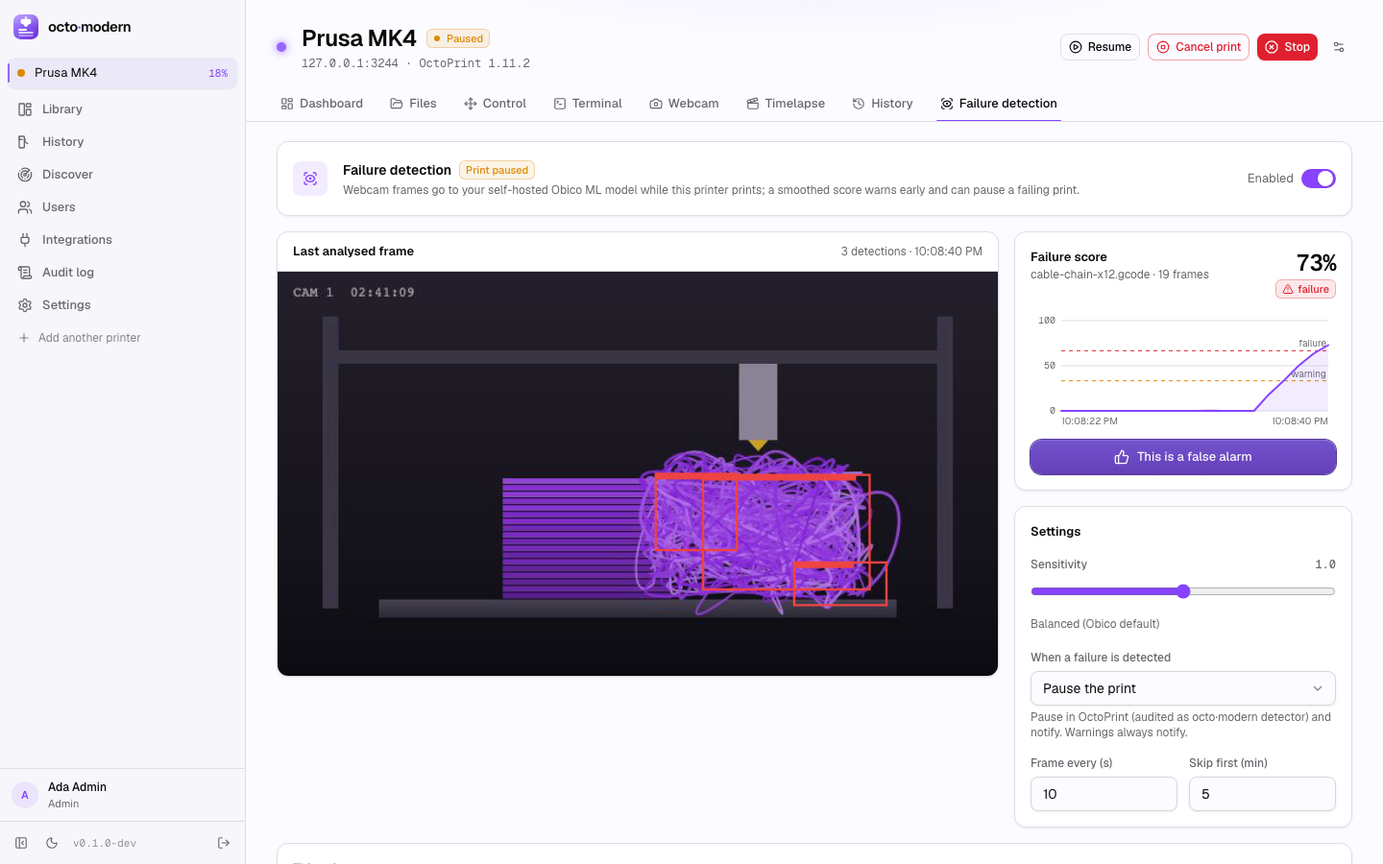
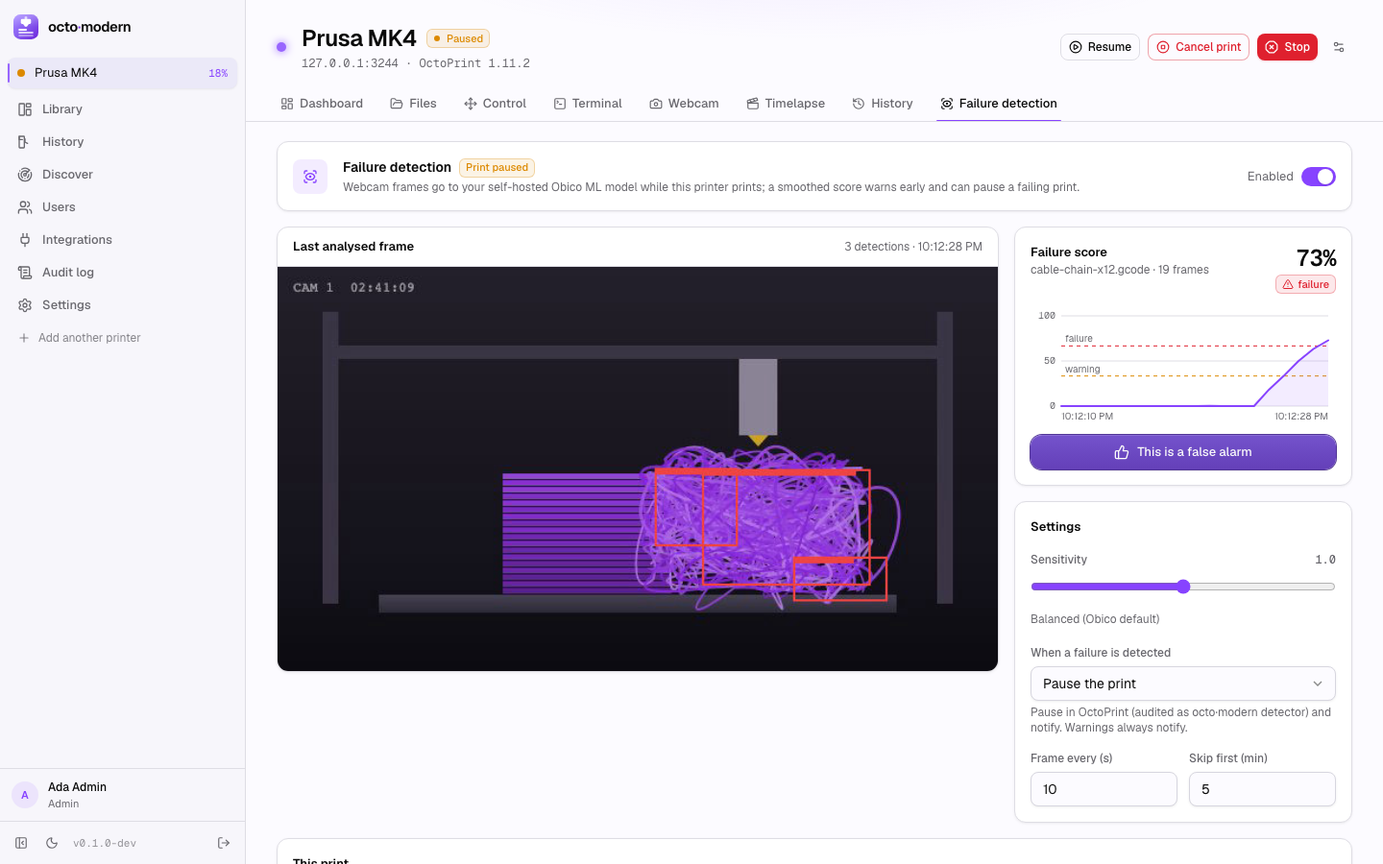
Failure detection: docs, compose example, mobile layout
compose.detect.yaml adds obico-server's ml_api (built from source) with a
shared ML_API_TOKEN; README and site document the verified ML API
interface, the score, the frame-link security model and the new
settings. The panel follows main's touch sizing; e2e takes a 390 px
screenshot and kills the app if it ignores SIGTERM.

Claude-Session: https://claude.ai/code/session_01VYYm8sXoCeympBHRdWuxtT

diff --git a/site/docs.html b/site/docs.html
@@ -94,6 +94,7 @@
 								<li><a href="#configuration">Configuration</a></li>
 								<li><a href="#status-api">Status API</a></li>
 								<li><a href="#webcams">Webcams and files</a></li>
+								<li><a href="#detection">Failure detection</a></li>
 								<li><a href="#images">Images</a></li>
 								<li><a href="#security">Security model</a></li>
 								<li><a href="#backup">Backup &amp; restore</a></li>
@@ -166,8 +167,9 @@
 								<tr><td>Start, pause, resume, cancel prints</td><td class="yes" data-label="Admin">✓</td><td class="yes" data-label="Operator">✓</td><td class="no" data-label="Viewer">–</td></tr>
 								<tr><td>Set temperatures, connect/disconnect, G-code, emergency stop</td><td class="yes" data-label="Admin">✓</td><td class="yes" data-label="Operator">✓</td><td class="no" data-label="Viewer">–</td></tr>
 								<tr><td>Upload, print and delete files</td><td class="yes" data-label="Admin">✓</td><td class="yes" data-label="Operator">✓</td><td class="no" data-label="Viewer">–</td></tr>
+								<tr><td>Turn failure detection on per printer, sensitivity, action; mark a false alarm</td><td class="yes" data-label="Admin">✓</td><td class="yes" data-label="Operator">✓</td><td class="no" data-label="Viewer">–</td></tr>
 								<tr><td>Add, edit and remove printers (and their API keys)</td><td class="yes" data-label="Admin">✓</td><td class="no" data-label="Operator">–</td><td class="no" data-label="Viewer">–</td></tr>
-								<tr><td>Users, Integrations, Audit log, Settings, backups</td><td class="yes" data-label="Admin">✓</td><td class="no" data-label="Operator">–</td><td class="no" data-label="Viewer">–</td></tr>
+								<tr><td>Users, Integrations, Audit log, Settings (including the ML API), backups</td><td class="yes" data-label="Admin">✓</td><td class="no" data-label="Operator">–</td><td class="no" data-label="Viewer">–</td></tr>
 							</tbody>
 						</table>
 						<p style="margin-top: 16px">Operators and viewers see every printer, or only the ones you pick under <strong>Users → Printers</strong>. Roles are enforced on the server for every route, not just hidden in the UI.</p>
@@ -189,6 +191,9 @@
 								<tr><td class="var"><code>OCM_ADMIN_EMAIL</code>, <code>OCM_ADMIN_PASSWORD</code>, <code>OCM_ADMIN_NAME</code></td><td data-label="Default">—</td><td data-label="What it does">Create the first admin on start instead of using the setup wizard</td></tr>
 								<tr><td class="var"><code>OCM_AUTH</code></td><td data-label="Default">—</td><td data-label="What it does"><code>disabled</code> skips sign-in and gives everyone admin access (trusted networks only). For guests, use <strong>Settings → Sign-in</strong> instead</td></tr>
 								<tr><td class="var"><code>OCM_LOCAL_LOGIN</code></td><td data-label="Default">—</td><td data-label="What it does"><code>disabled</code> hides the email/password form (SSO only); <code>enabled</code> forces it back on</td></tr>
+								<tr><td class="var"><code>OCM_ML_API_URL</code></td><td data-label="Default">—</td><td data-label="What it does">Obico's ML API for failure detection, e.g. <code>http://ml_api:3333</code> (Settings → Failure detection overrides it)</td></tr>
+								<tr><td class="var"><code>OCM_ML_API_TOKEN</code></td><td data-label="Default">—</td><td data-label="What it does">The ml_api container's <code>ML_API_TOKEN</code>, sent as a Bearer token</td></tr>
+								<tr><td class="var"><code>OCM_DETECT_PUBLIC_URL</code></td><td data-label="Default">—</td><td data-label="What it does">octo·modern's address as the ML container reaches it, e.g. <code>http://octo-modern:3000</code></td></tr>
 								<tr><td class="var"><code>OCM_OIDC_ISSUER</code></td><td data-label="Default">—</td><td data-label="What it does">OIDC issuer URL; enables SSO (or configure it under Integrations)</td></tr>
 								<tr><td class="var"><code>OCM_OIDC_CLIENT_ID</code>, <code>OCM_OIDC_CLIENT_SECRET</code></td><td data-label="Default">—</td><td data-label="What it does">Client credentials from your identity provider</td></tr>
 								<tr><td class="var"><code>OCM_OIDC_NAME</code></td><td data-label="Default"><code>SSO</code></td><td data-label="What it does">Login button label</td></tr>
@@ -302,6 +307,19 @@
 						<p>Uploads go to OctoPrint's local storage and are streamed as they arrive, so memory use doesn't grow with the file; the image allows up to 4 GB (<code>BODY_SIZE_LIMIT</code>). A reverse proxy in front may have its own limit (nginx: <code>client_max_body_size</code>).</p>
 					</section>
 
+					<section id="detection">
+						<h2>Failure detection</h2>
+						<p>octo·modern watches printing printers with Obico's failure-detection model (the "Spaghetti Detective"), in your own <code>ml_api</code> container from <a href="https://github.com/TheSpaghettiDetective/obico-server">obico-server</a>; no Obico account or cloud. Add it with <code>compose.detect.yaml</code> from the repository:</p>
+						<pre><code>echo "ML_API_TOKEN=$(openssl rand -hex 32)" &gt;&gt; .env
+docker compose -f compose.yaml -f compose.detect.yaml up -d</code></pre>
+						<p>Check <strong>Settings → Failure detection</strong> (ML API URL, token, and octo·modern's address as the container sees it, usually <code>http://octo-modern:3000</code>), press <strong>Test</strong> for a full round trip, then turn detection on in a printer's <strong>Failure detection</strong> tab.</p>
+						<ul>
+							<li><strong>Frames</strong>: after the first minutes of a print (default 5), a webcam snapshot every 10 s goes to <code>GET /p/?img=&lt;url&gt;</code>; the container downloads it and answers boxes and confidences. That's the ML API's only interface: it takes no image bytes, so octo·modern serves each frame through a single-use, 30-second link.</li>
+							<li><strong>Score</strong>: Obico's own algorithm: the frame's confidences summed, smoothed over 12 frames, minus a long-term baseline per printer, times the sensitivity. Warning from 33 %, failure from 67 % on Obico's 0–100 % scale.</li>
+							<li><strong>Actions</strong>: a warning sends a <code>failure.suspected</code> notification with the annotated frame (tick <strong>Failure suspected</strong> on a channel). A failure does nothing, notifies, or pauses the print, audited as <code>octo·modern detector</code>. <strong>This is a false alarm</strong> turns it off until the print ends.</li>
+						</ul>
+					</section>
+
 					<section id="images">
 						<h2>Images</h2>
 						<p>Published to the GitHub Container Registry for <code>linux/amd64</code> and <code>linux/arm64</code>.</p>
@@ -327,6 +345,7 @@
 							<li><strong>API tokens</strong> (<code>ocm_</code> + 32 random bytes, SHA-256 hashed at rest) only work on <code>GET /api/status…</code>; they never become sessions, and repeated bad tokens from one address are throttled.</li>
 							<li><strong>Sign-in</strong> is by OIDC or local accounts (scrypt-hashed passwords, login throttle). Sessions are httpOnly cookies that end when the user is disabled or their role changes. Writes from another origin are rejected.</li>
 							<li><strong>Discovery</strong> is admin-only and read-only: Docker and Arcane are only read, a socket proxy keeps writes blocked, and subnet scans are capped at 4096 addresses and audited.</li>
+							<li><strong>Failure detection frames</strong> are served at <code>/api/detect/frame/&lt;token&gt;</code>: a random 256-bit, single-use token, valid 30 s, for one captured frame (never the camera). It's the only path besides the status API that works without a session, and only for <code>GET</code>.</li>
 							<li><strong>Backup files</strong> hold decrypted API keys and the SSO client secret, re-encrypted with AES-256-GCM under a key derived from your passphrase (scrypt). Treat them like a password manager export.</li>
 						</ul>
 					</section>

diff --git a/src/lib/components/printer/DetectionTab.svelte b/src/lib/components/printer/DetectionTab.svelte
@@ -89,7 +89,7 @@
 {:else}
 	<div class="space-y-4" data-testid="detection-panel" data-phase={st.phase} data-level={st.level}>
 		<section class="card flex flex-wrap items-center gap-x-4 gap-y-3 p-4">
-			<span class="grid size-9 shrink-0 place-items-center rounded-lg bg-primary-soft text-primary"><ScanEye class="size-4" /></span>
+			<span class="grid size-9 shrink-0 place-items-center rounded-lg bg-primary-soft text-primary max-sm:hidden"><ScanEye class="size-4" /></span>
 			<div class="min-w-0 flex-1">
 				<h2 class="flex flex-wrap items-center gap-2 text-[14px] font-semibold">
 					Failure detection
@@ -99,7 +99,7 @@
 					Webcam frames go to your self-hosted Obico ML model while this printer prints; a smoothed score warns early and can pause a failing print.
 				</p>
 			</div>
-			<label class="flex min-h-11 items-center gap-2 text-[13px]">
+			<label class="flex items-center touch:min-h-11 gap-2 text-[13px]">
 				<span class="text-muted-foreground">Enabled</span>
 				<Switch label="Enable failure detection" checked={st.settings.enabled} disabled={!canControl || saving} onchange={(v) => save({ enabled: v })} />
 			</label>
@@ -164,7 +164,7 @@
 						<p class="mt-2 text-xs text-muted-foreground">First frame around {time(st.nextFrameAt)} (skipping the first {st.settings.skipMinutes} min).</p>
 					{/if}
 					{#if canDismiss}
-						<button class="btn {st.level === 'ok' ? 'btn-secondary' : 'btn-primary'} mt-3 h-11 w-full sm:h-9" onclick={falseAlarm} data-testid="false-alarm"><ThumbsUp />This is a false alarm</button>
+						<button class="btn {st.level === 'ok' ? 'btn-secondary' : 'btn-primary'} mt-3 w-full touch:h-11" onclick={falseAlarm} data-testid="false-alarm"><ThumbsUp />This is a false alarm</button>
 					{/if}
 					{#if st.dismissed}
 						<p class="mt-3 flex items-center gap-1.5 text-xs text-muted-foreground"><Eye class="size-3.5" />Marked as a false alarm by {st.dismissed.by} {ago(new Date(st.dismissed.at).toISOString())}.</p>
@@ -178,7 +178,7 @@
 							<span class="label flex justify-between"><span>Sensitivity</span><span class="font-mono">{draft.sensitivity.toFixed(1)}</span></span>
 							<input
 								type="range"
-								class="h-11 w-full accent-[var(--primary)] sm:h-7"
+								class="h-7 w-full accent-[var(--primary)] touch:h-11"
 								min={SENSITIVITY.min}
 								max={SENSITIVITY.max}
 								step="0.1"
@@ -190,7 +190,7 @@
 						</label>
 						<label class="block">
 							<span class="label">When a failure is detected</span>
-							<select class="input h-11 w-full sm:h-9" disabled={!canControl} bind:value={draft.onFailure} onchange={() => save({ onFailure: draft!.onFailure })}>
+							<select class="input w-full touch:h-11" disabled={!canControl} bind:value={draft.onFailure} onchange={() => save({ onFailure: draft!.onFailure })}>
 								{#each ACTIONS as a (a.value)}<option value={a.value}>{a.label}</option>{/each}
 							</select>
 							<span class="mt-1 block text-xs text-muted-foreground">{ACTIONS.find((a) => a.value === draft!.onFailure)?.hint} Warnings always notify.</span>
@@ -198,11 +198,11 @@
 						<div class="grid grid-cols-2 gap-3">
 							<label>
 								<span class="label">Frame every (s)</span>
-								<input class="input h-11 w-full sm:h-9" type="number" min={INTERVAL.min} max={INTERVAL.max} disabled={!canControl} bind:value={draft.intervalS} onchange={() => save({ intervalS: Number(draft!.intervalS) })} />
+								<input class="input w-full touch:h-11" type="number" min={INTERVAL.min} max={INTERVAL.max} disabled={!canControl} bind:value={draft.intervalS} onchange={() => save({ intervalS: Number(draft!.intervalS) })} />
 							</label>
 							<label>
 								<span class="label">Skip first (min)</span>
-								<input class="input h-11 w-full sm:h-9" type="number" min={SKIP_MINUTES.min} max={SKIP_MINUTES.max} disabled={!canControl} bind:value={draft.skipMinutes} onchange={() => save({ skipMinutes: Number(draft!.skipMinutes) })} />
+								<input class="input w-full touch:h-11" type="number" min={SKIP_MINUTES.min} max={SKIP_MINUTES.max} disabled={!canControl} bind:value={draft.skipMinutes} onchange={() => save({ skipMinutes: Number(draft!.skipMinutes) })} />
 							</label>
 						</div>
 						{#if !canControl}<p class="text-xs text-muted-foreground">Operators and admins can change these.</p>{/if}

diff --git a/src/lib/components/detect/DetectionSettings.svelte b/src/lib/components/detect/DetectionSettings.svelte
@@ -72,12 +72,12 @@
 		<div class="mt-4 grid gap-3 md:grid-cols-2">
 			<label>
 				<span class="label">ML API URL</span>
-				<input class="input h-11 w-full sm:h-9" placeholder="http://ml_api:3333" bind:value={form.mlApiUrl} data-testid="ml-api-url" />
+				<input class="input w-full touch:h-11" placeholder="http://ml_api:3333" bind:value={form.mlApiUrl} data-testid="ml-api-url" />
 				<span class="mt-1 block text-xs text-muted-foreground">{info.fromEnv.mlApiUrl ? 'From OCM_ML_API_URL; saving a value overrides it.' : 'Where octo·modern reaches the ml_api container.'}</span>
 			</label>
 			<div>
 				<label for="ml-api-token" class="label">ML API token</label>
-				<input id="ml-api-token" class="input h-11 w-full sm:h-9" type="password" autocomplete="off" placeholder={info.hasToken ? '•••••• (set)' : 'optional: the container’s ML_API_TOKEN'} bind:value={form.token} data-testid="ml-api-token" />
+				<input id="ml-api-token" class="input w-full touch:h-11" type="password" autocomplete="off" placeholder={info.hasToken ? '•••••• (set)' : 'optional: the container’s ML_API_TOKEN'} bind:value={form.token} data-testid="ml-api-token" />
 				<span class="mt-1 flex items-center gap-2 text-xs text-muted-foreground">
 					{#if info.hasToken && !info.fromEnv.token}
 						<label class="flex items-center gap-1.5"><input type="checkbox" bind:checked={clearToken} />Remove the saved token</label>
@@ -86,7 +86,7 @@
 			</div>
 			<label class="md:col-span-2">
 				<span class="label">octo·modern’s address, as the ML container sees it</span>
-				<input class="input h-11 w-full sm:h-9" placeholder="http://octo-modern:3000" bind:value={form.publicUrl} data-testid="detect-public-url" />
+				<input class="input w-full touch:h-11" placeholder="http://octo-modern:3000" bind:value={form.publicUrl} data-testid="detect-public-url" />
 				<span class="mt-1 block text-xs text-muted-foreground">
 					Usually the compose service name (<code class="font-mono">http://octo-modern:3000</code>), not the address in your browser ({origin}). Only
 					<code class="font-mono">/api/detect/frame/&lt;one-time token&gt;</code> is reachable without signing in.
@@ -94,12 +94,12 @@
 			</label>
 		</div>
 		<div class="mt-4 flex flex-wrap items-center gap-2">
-			<button class="btn btn-primary h-11 sm:h-9" disabled={saving || testing} onclick={save}>{#if saving}<LoaderCircle class="animate-spin" />{/if}Save</button>
-			<select class="input h-11 w-full sm:h-9 sm:w-56" aria-label="Test with" bind:value={testPrinter}>
+			<button class="btn btn-primary touch:h-11" disabled={saving || testing} onclick={save}>{#if saving}<LoaderCircle class="animate-spin" />{/if}Save</button>
+			<select class="input w-full touch:h-11 sm:w-56" aria-label="Test with" bind:value={testPrinter}>
 				<option value="">Test with a test card</option>
 				{#each printers.list as p (p.id)}<option value={p.id}>Test with {p.name}’s webcam</option>{/each}
 			</select>
-			<button class="btn btn-secondary h-11 sm:h-9" disabled={saving || testing || !form.mlApiUrl || !form.publicUrl} onclick={test} data-testid="detect-test">
+			<button class="btn btn-secondary touch:h-11" disabled={saving || testing || !form.mlApiUrl || !form.publicUrl} onclick={test} data-testid="detect-test">
 				{#if testing}<LoaderCircle class="animate-spin" />{:else}<Send />{/if}Test
 			</button>
 		</div>

diff --git a/site/index.html b/site/index.html
@@ -244,6 +244,13 @@
 							</div>
 						</article>
 						<article class="card feature">
+							<span class="icon-tile"><svg class="ico" viewBox="0 0 24 24" aria-hidden="true"><path d="M3 7V5a2 2 0 0 1 2-2h2"/><path d="M17 3h2a2 2 0 0 1 2 2v2"/><path d="M21 17v2a2 2 0 0 1-2 2h-2"/><path d="M7 21H5a2 2 0 0 1-2-2v-2"/><circle cx="12" cy="12" r="1"/><path d="M18.944 12.33a1 1 0 0 0 0-.66 7.5 7.5 0 0 0-13.888 0 1 1 0 0 0 0 .66 7.5 7.5 0 0 0 13.888 0"/></svg></span>
+							<div>
+								<h3>AI failure detection</h3>
+								<p>Your own Obico ML container watches each print. A smoothed failure score warns you with the annotated frame and can pause a print that has turned to spaghetti.</p>
+							</div>
+						</article>
+						<article class="card feature">
 							<span class="icon-tile"><svg class="ico" viewBox="0 0 24 24" aria-hidden="true"><path d="M10.268 21a2 2 0 0 0 3.464 0"/><path d="M3.262 15.326A1 1 0 0 0 4 17h16a1 1 0 0 0 .74-1.673C19.41 13.956 18 12.499 18 8A6 6 0 0 0 6 8c0 4.499-1.411 5.956-2.738 7.326"/></svg></span>
 							<div>
 								<h3>Timelapses &amp; notifications</h3>
@@ -302,6 +309,10 @@
 						<a class="shot" href="screenshots/timelapse-player.png" data-caption="Timelapses play in the browser with seeking">
 							<span class="thumb"><img src="screenshots/timelapse-player.png" width="1440" height="900" loading="lazy" decoding="async" alt="Timelapse player showing a rendered print timelapse" /></span>
 							<span class="cap">Timelapses<small>Watch in the browser</small></span>
+						</a>
+						<a class="shot" href="screenshots/detection.png" data-caption="Failure detection: the score over the print, the last frame with boxes, paused by the detector">
+							<span class="thumb"><img src="screenshots/detection.png" width="1440" height="900" loading="lazy" decoding="async" alt="Failure detection tab with a webcam frame of a spaghetti print outlined in red and a rising failure score" /></span>
+							<span class="cap">Failure detection<small>Spaghetti, caught</small></span>
 						</a>
 						<a class="shot" href="screenshots/discover.png" data-caption="Discover: OctoPrint in Docker, Arcane and on the network">
 							<span class="thumb"><img src="screenshots/discover.png" width="1440" height="900" loading="lazy" decoding="async" alt="Discover page listing OctoPrint containers with their serial devices" /></span>

diff --git a/src/lib/components/detect/ScoreChart.svelte b/src/lib/components/detect/ScoreChart.svelte
@@ -41,8 +41,8 @@
 		{/each}
 		<line x1={PAD.left} x2={width - PAD.right} y1={y(1 / 3)} y2={y(1 / 3)} stroke="var(--warning)" stroke-width="1" stroke-dasharray="4 4" />
 		<line x1={PAD.left} x2={width - PAD.right} y1={y(2 / 3)} y2={y(2 / 3)} stroke="var(--danger)" stroke-width="1" stroke-dasharray="4 4" />
-		<text x={width - PAD.right - 2} y={y(1 / 3) - 4} text-anchor="end" class="fill-muted-foreground text-[10px]">warning</text>
-		<text x={width - PAD.right - 2} y={y(2 / 3) - 4} text-anchor="end" class="fill-muted-foreground text-[10px]">failure</text>
+		<text x={PAD.left + 4} y={y(1 / 3) - 4} class="fill-muted-foreground text-[10px]">warning</text>
+		<text x={PAD.left + 4} y={y(2 / 3) - 4} class="fill-muted-foreground text-[10px]">failure</text>
 		{#if area}<path d={area} fill="var(--primary-soft)" />{/if}
 		{#if points.length > 1}
 			<path d={path} fill="none" stroke="var(--primary)" stroke-width="2" stroke-linejoin="round" stroke-linecap="round" />

diff --git a/README.md b/README.md
@@ -33,6 +33,7 @@
 - **Connection**: connect and disconnect the printer with OctoPrint's ports, baud rates and printer profiles, and an emergency stop (M112).
 - **API keys stay server-side**: keys are sealed with AES-256-GCM and never sent to a browser. Every request to OctoPrint, including the push connection, webcam images and uploads, goes through octo·modern.
 - **Roles**: *admins* manage everything, *operators* run printers, *viewers* watch. Give people every printer or only some. See [Users and roles](#users-and-roles).
+- **AI failure detection**: while a printer prints, webcam frames go to your own [Obico](https://www.obico.io) ML container; a smoothed failure score (Obico's own algorithm) warns you with the annotated frame and can pause a print that has turned to spaghetti. A "false alarm" button quiets it for the rest of the print. See [Failure detection](#failure-detection).
 - **Audit log**: every print started, paused or cancelled, every temperature change, upload, deletion, G-code command and connection change, with who did it and from where.
 - **Single sign-on**: any OIDC provider (Authentik, Authelia, Keycloak, Pocket ID, Google, …), with accounts created automatically for matching emails.
 - **Status API for dashboards**: read-only tokens for Homepage, Glance, Uptime Kuma and Home Assistant. See [Dashboards and monitoring](#dashboards-and-monitoring).
@@ -153,9 +154,11 @@ Enter a CIDR (`192.168.4.0/24`), a range (`192.168.4.20-40`) or addresses, and p
 | Send library files to printers, save printer files to the library | ✓ | ✓ | |
 | Watch the print history and timelapses, export CSV | ✓ | ✓ | ✓ |
 | Notes on prints, print again, delete and render timelapses | ✓ | ✓ | |
+| Watch failure detection (score, last frame) | ✓ | ✓ | ✓ |
+| Turn failure detection on/off per printer, its sensitivity and action; mark a false alarm | ✓ | ✓ | |
 | Timelapse settings, delete history entries, import history, notifications | ✓ | | |
 | Add, edit and remove printers (and their API keys) | ✓ | | |
-| Users, Integrations, Audit log, Settings, backups, library sources | ✓ | | |
+| Users, Integrations, Audit log, Settings (including the ML API), backups, library sources | ✓ | | |
 
 Operators and viewers see every printer, or only the ones you pick under **Users → Printers**. Printers someone hasn't been given don't exist as far as they can tell. Roles are enforced on the server for every route, not just hidden in the UI.
 
@@ -265,6 +268,37 @@ A print shorter than one poll interval, started and finished while nobody watche
 ## Timelapses
 
 The **Timelapse** tab lists OctoPrint's rendered timelapses with their thumbnails, plays them in the browser and downloads them. octo·modern relays the videos with HTTP Range requests passed through, so the player can seek without downloading the whole file, and the browser never needs to reach OctoPrint. Operators delete timelapses and render or delete unrendered ones; admins change the settings (off, on each layer change, or timed; frame rate, interval, post-roll). OctoPrint needs a webcam snapshot URL and ffmpeg to record timelapses (the `octoprint/octoprint` image has ffmpeg).
+
+## Failure detection
+
+octo·modern watches printing printers with **Obico's failure-detection model** (the "Spaghetti Detective"), running in your own `ml_api` container from [obico-server](https://github.com/TheSpaghettiDetective/obico-server). No Obico account or cloud is involved. Add the container with [`compose.detect.yaml`](compose.detect.yaml):
+
+```sh
+echo "ML_API_TOKEN=$(openssl rand -hex 32)" >> .env
+docker compose -f compose.yaml -f compose.detect.yaml up -d
+```
+
+Then, as an admin, check **Settings → Failure detection** (the ML API URL, its token, and *octo·modern's address as the ML container sees it*, usually `http://octo-modern:3000`); **Test** checks the model is loaded and does a full round trip. Turn detection on per printer in its **Failure detection** tab.
+
+**What happens while a printer prints**
+
+1. After the first minutes of the print (default 5, by OctoPrint's print time; covers the first layer), every *N* seconds (default 10, which is what Obico's thresholds are tuned for) octo·modern takes a webcam snapshot, the same way the Webcam tab does.
+2. It sends the ML API `GET /p/?img=<one-time link to that frame>`; the container downloads the frame and answers with boxes and confidences.
+3. The detections feed a smoothed **failure score**, Obico's first-generation algorithm ported as is (and tested frame by frame against obico-server's code): `p` = the sum of the frame's confidences; an exponentially weighted mean of `p` over 12 frames; minus a long-term baseline of what this camera normally looks like (a rolling mean over ~7200 frames, kept per printer across prints, so a camera that always sees a bit of "failure" doesn't cry wolf); times the sensitivity (Obico's `detective_sensitivity`, 1.0 by default). It's compared against a warning threshold of `(short-term mean − baseline) × 3.8`, clamped to 0.38–0.78, and a failure threshold of 1.75 × that. The panel shows it on Obico's 0–100 % scale: **warning** from 33 %, **failure** from 67 %.
+4. **Warning**: a `failure.suspected` notification with the frame, boxes drawn in (once; again only after 10 minutes back to normal). **Failure**, once per print, the printer's setting: *do nothing*, *notify*, or *pause the print* (OctoPrint's pause, in the audit log as `octo·modern detector`, plus a notification).
+5. **This is a false alarm** (operators) turns detection off until the print ends. Paused prints get no frames; nothing is resumed automatically.
+
+The tab shows the score over the print, the last analysed frame with its boxes, what happened (warnings, pauses, errors such as an unreachable ML API) and the settings. Channels get these notifications when **Failure suspected** is ticked under **History → Notifications**: ntfy gets the JPEG as an attachment, Discord in the embed, and a generic webhook gets the usual JSON with `"event": "failure.suspected"` plus `"detection": { "level": "warning" | "failure", "score": 0.71, "action": "notify" | "none" | "paused" | "pause-failed" }` and `"image": { "contentType": "image/jpeg", "filename": "failure.jpg", "base64": "…" }`.
+
+**The ML API, as verified in obico-server's source** (`release` branch, commit `6f93896`: `ml_api/server.py`, `ml_api/auth.py`, `ml_api/lib/onnx.py`, `backend/lib/prediction.py`, `backend/lib/failure_detection.py`):
+
+| | |
+| --- | --- |
+| `GET /p/?img=<url>` | Downloads the image from `<url>` (0.1 s connect / 5 s read timeout, up to 3 tries on connection errors and 5xx), returns `200 {"detections": [["failure", 0.83, [xc, yc, w, h]], …]}`: box centre and size in pixels of that image, every box above 0.08 confidence. `400 {"detections": [], "message": …}` when it can't fetch or decode the image, `422` without `img` |
+| `GET /hc/` | `ok` once the model has loaded (no auth) |
+| Auth | With `ML_API_TOKEN` set on the container, `/p/` needs `Authorization: Bearer <token>` and answers a bare `401` otherwise; without it, no auth |
+
+There is **no endpoint that takes image bytes** (no POST, no upload), so the frame has to be at a URL the container can reach, which is why octo·modern serves it through the one-time link (see [Security model](#security-model)). Detection state is kept in memory, so after a restart a running print's score starts over (the long-term baseline is saved).
 
 ## Dashboards and monitoring
 
@@ -389,6 +423,8 @@ On a phone (390 px): the dashboard while printing, files, the jog pad, and the l
 | **A print**: how it ended, notes, print again | **History tab** of one printer |
 | ![Timelapse player](docs/screenshots/timelapse-player.png) | ![Timelapses, light](docs/screenshots/timelapse-light.png) |
 | **Timelapse**: play with seeking, download | **Timelapse settings**, light |
+| ![Failure detection](docs/screenshots/detection.png) | ![Failure detection, light](docs/screenshots/detection-light.png) |
+| **Failure detection**: score, last frame with boxes, paused by the detector | **Failure detection**, light |
 | ![Settings](docs/screenshots/settings.png) | ![Sign in](docs/screenshots/login.png) |
 | **Settings**: security and backup | **Sign in** |
 | ![Discover, light](docs/screenshots/discover-light.png) | ![Setup wizard](docs/screenshots/setup-discover.png) |
@@ -416,6 +452,9 @@ On a phone (390 px): the dashboard while printing, files, the jog pad, and the l
 | `OCM_DOCKER_HOSTS` | the local socket, if present | Docker endpoints for Discover, e.g. `tcp://docker-proxy:2375,tcp://nas.lan:2375`; `none` turns it off |
 | `OCM_SELF_CONTAINER` | — | octo·modern's own container name, when Discover can't find it by hostname or IP |
 | `OCM_ARCANE_URL`, `OCM_ARCANE_API_KEY`, `OCM_ARCANE_NAME` | — | An Arcane instance for Discover (or connect one in the UI) |
+| `OCM_ML_API_URL` | — | Obico's ML API for failure detection, e.g. `http://ml_api:3333` (or set it under Settings → Failure detection, which overrides this) |
+| `OCM_ML_API_TOKEN` | — | The ml_api container's `ML_API_TOKEN`, sent as `Authorization: Bearer …` |
+| `OCM_DETECT_PUBLIC_URL` | — | octo·modern's address as the ML container reaches it, e.g. `http://octo-modern:3000` |
 | `OCM_POLL_INTERVAL_MS` | `10000` | Status poll for printers nobody is watching live |
 | `OCM_REQUEST_TIMEOUT_MS` | `10000` | Timeout for each request to OctoPrint |
 | `OCM_PUSH_THROTTLE` | `2` | Live updates arrive every 500 ms × this |
@@ -438,6 +477,7 @@ Under **Settings → Backup & restore**, admins download an encrypted file with 
 - **Sign-in** is by OIDC or by local accounts (scrypt-hashed passwords, login throttle). Sessions are httpOnly cookies tied to a user and end when the user is disabled or their role changes. Writes from another origin are rejected.
 - **Discovery** is admin-only and read-only: Docker and Arcane are only read (`GET`), a socket proxy keeps writes blocked, and fingerprinting uses unauthenticated `GET`s. Keys from the Application Keys flow are polled for by octo·modern's server and go straight into the encrypted store; the browser only sees the request's state. Subnet scans need an admin, are capped at 4096 addresses and are audited.
 - **Library sources**: NAS passwords and SFTP keys are sealed like API keys (bound to the source) and never sent to a browser. Sources are read-only unless an admin allows writing; folder sources refuse `..` and symlinks that lead outside the folder; SFTP host keys can be pinned.
+- **Failure detection frames**: Obico's ML API only accepts an image URL, so octo·modern serves each frame at `/api/detect/frame/<token>`: a 256-bit random, single-use token (only its SHA-256 is kept, in memory) that expires after 30 s and is revoked when the ML API answers. It serves that one captured frame, never the camera itself. Apart from the token-only status API, it's the only path open without a session, and only for `GET`. The ML API token is sealed like API keys.
 - **Backup files** hold decrypted API keys and the SSO client secret, re-encrypted with AES-256-GCM under a key derived from your passphrase (scrypt). Treat the file and its passphrase like a password manager export.
 
 ## Development
